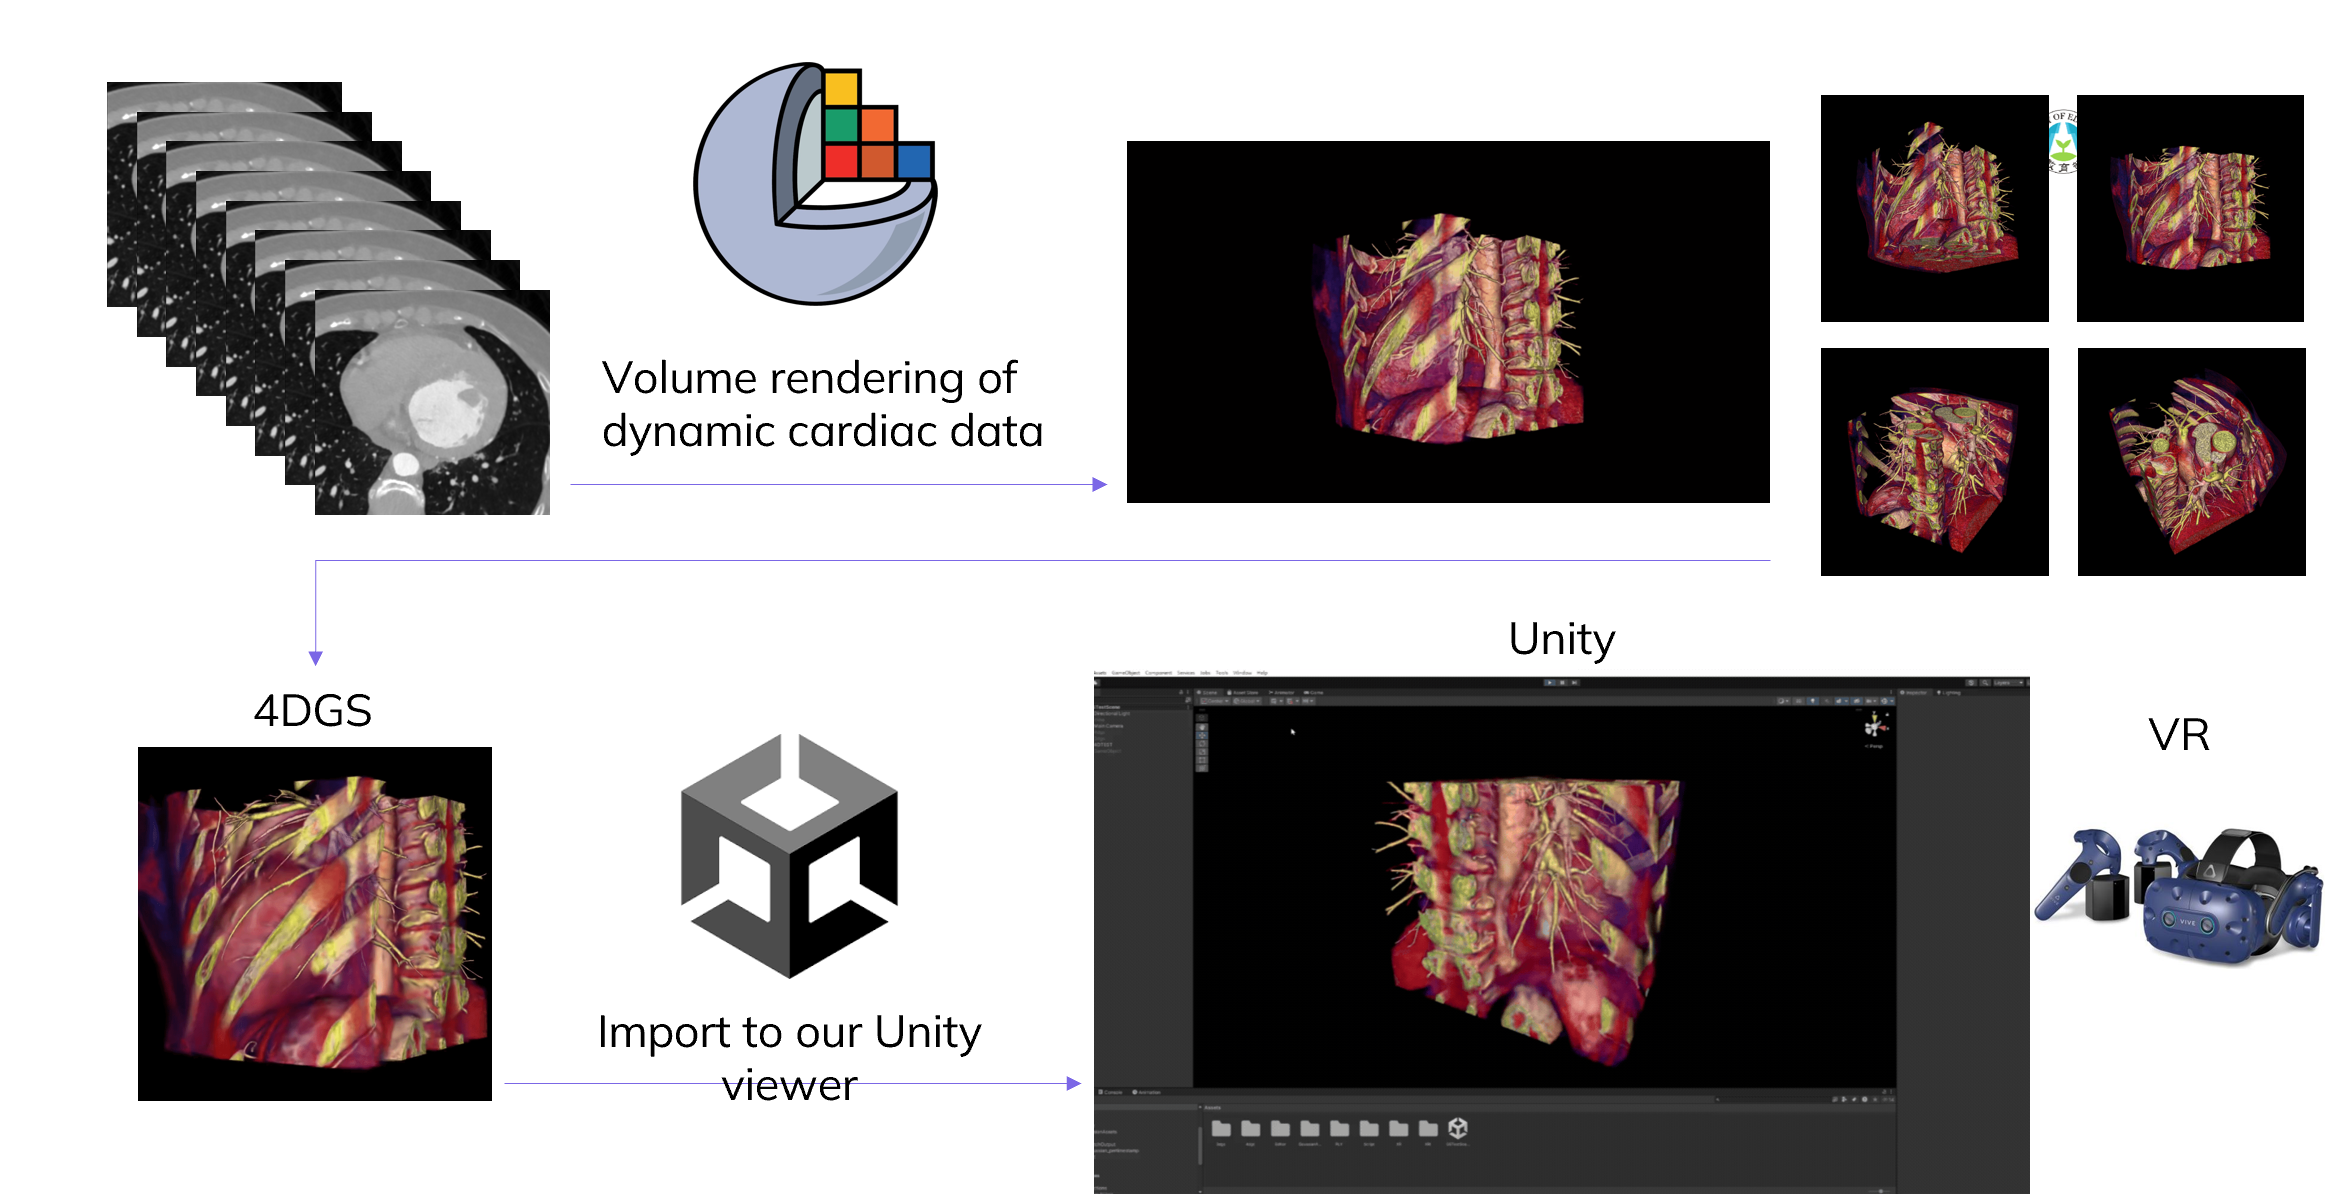
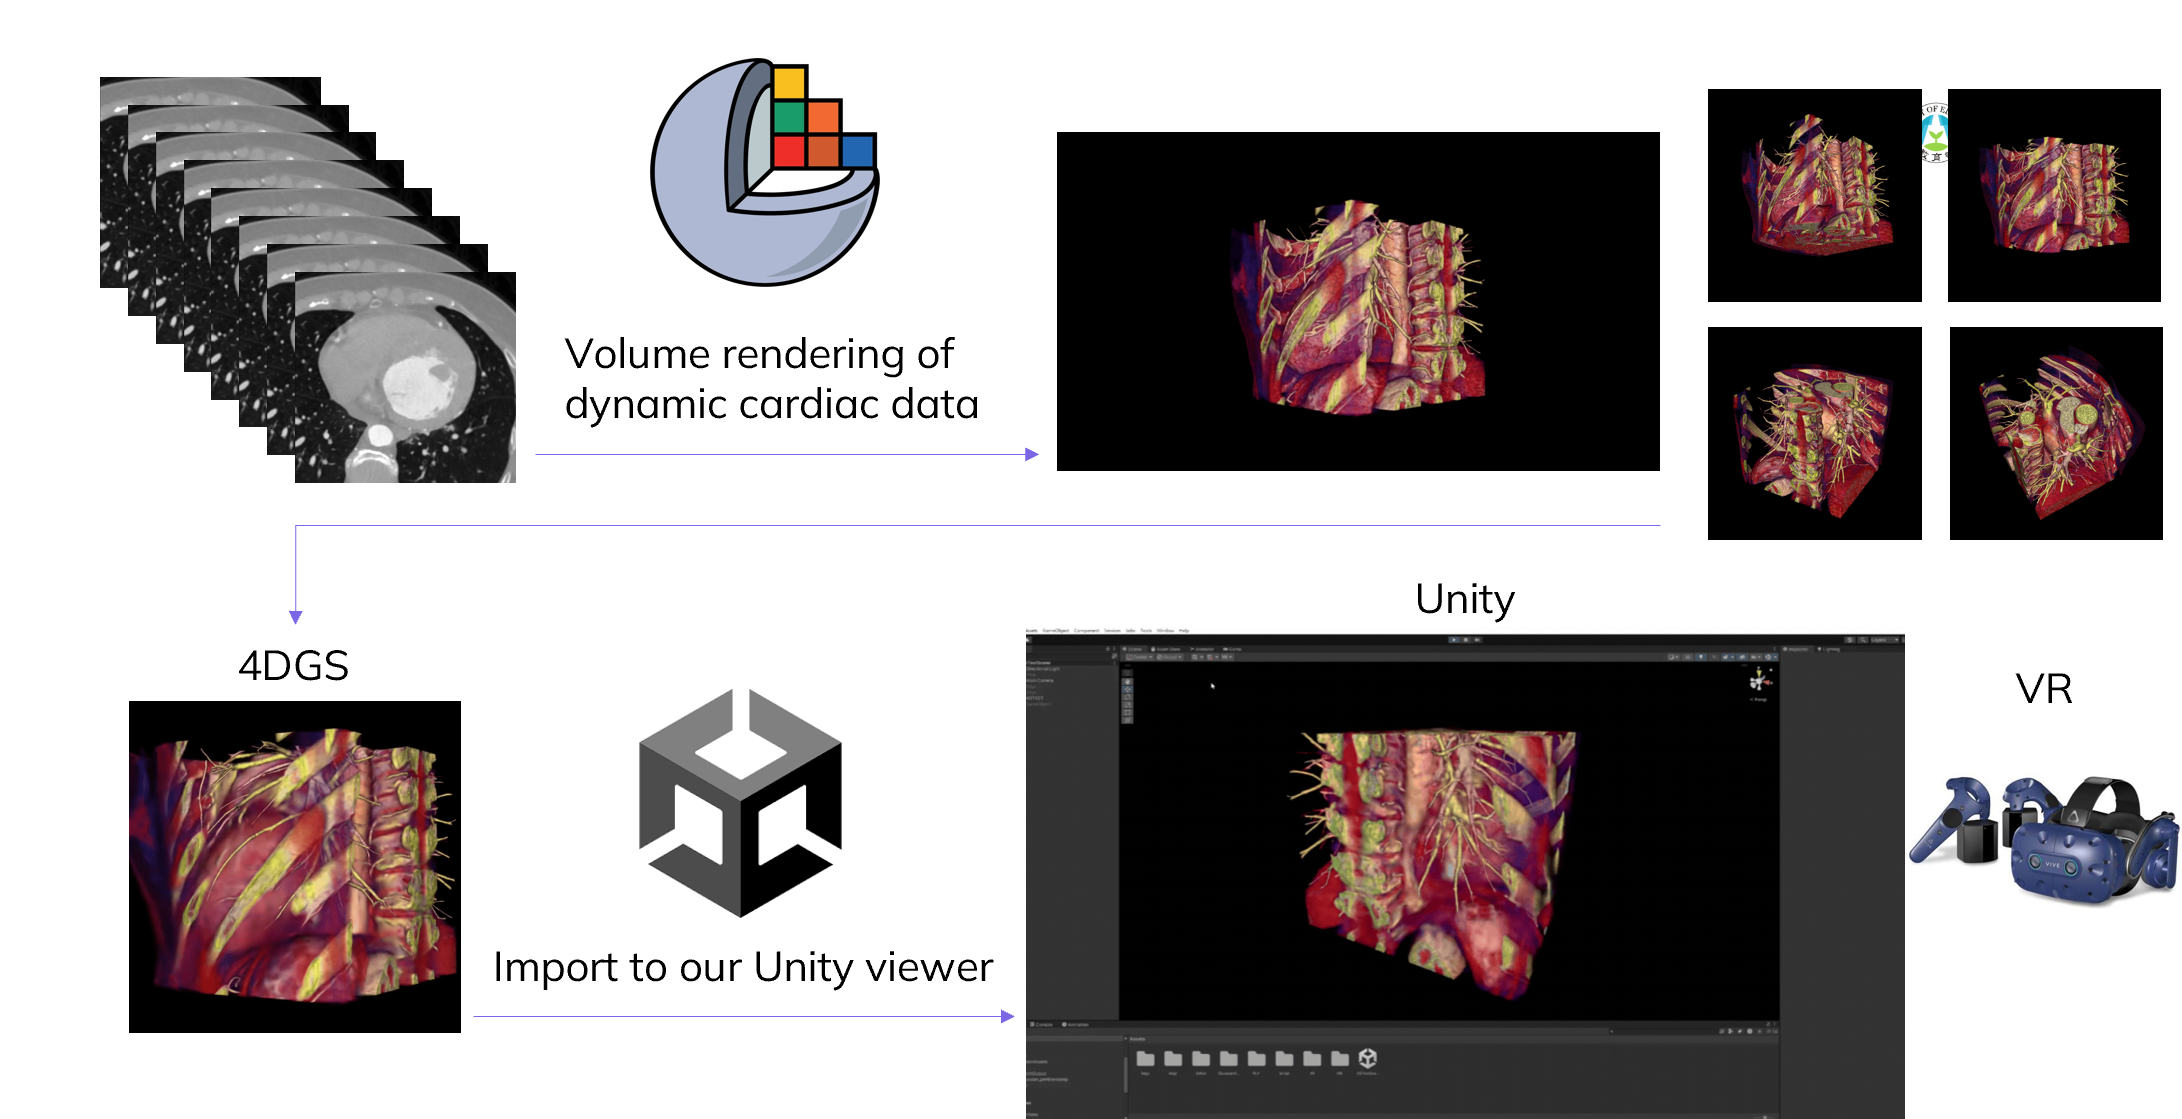
web0602-3

diff --git a/index.html b/index.html
@@ -133,7 +133,7 @@
               </span>
               <!-- Code Link. -->
               <span class="link-block">
-                <a href="https://github.com/kairaun/4DCardiac/tree/main/4DGSVRViewer"
+                <a href="https://github.com/kairaun/4DCardiac"
                    class="external-link button is-normal is-rounded is-dark">
                   <span class="icon">
                       <i class="fab fa-github"></i>
@@ -162,9 +162,11 @@
 <section class="hero teaser">
   <div class="container is-max-desktop">
     <div class="hero-body">
-      <img autoplay muted loop playsinline height="100%">
-        <source src="./static/images/pipeline.png" type="image/png">
-    </img>
+      <!--video id="teaser" autoplay muted loop playsinline height="100%">
+        <source src="./static/videos/teaser.mp4"
+                type="video/mp4">
+      </video-->
+      <img src="./static/images/pipeline.png">
       <!--h2 class="subtitle has-text-centered">
         <span class="dnerf">Nerfies</span> turns selfie videos from your phone into
         free-viewpoint
